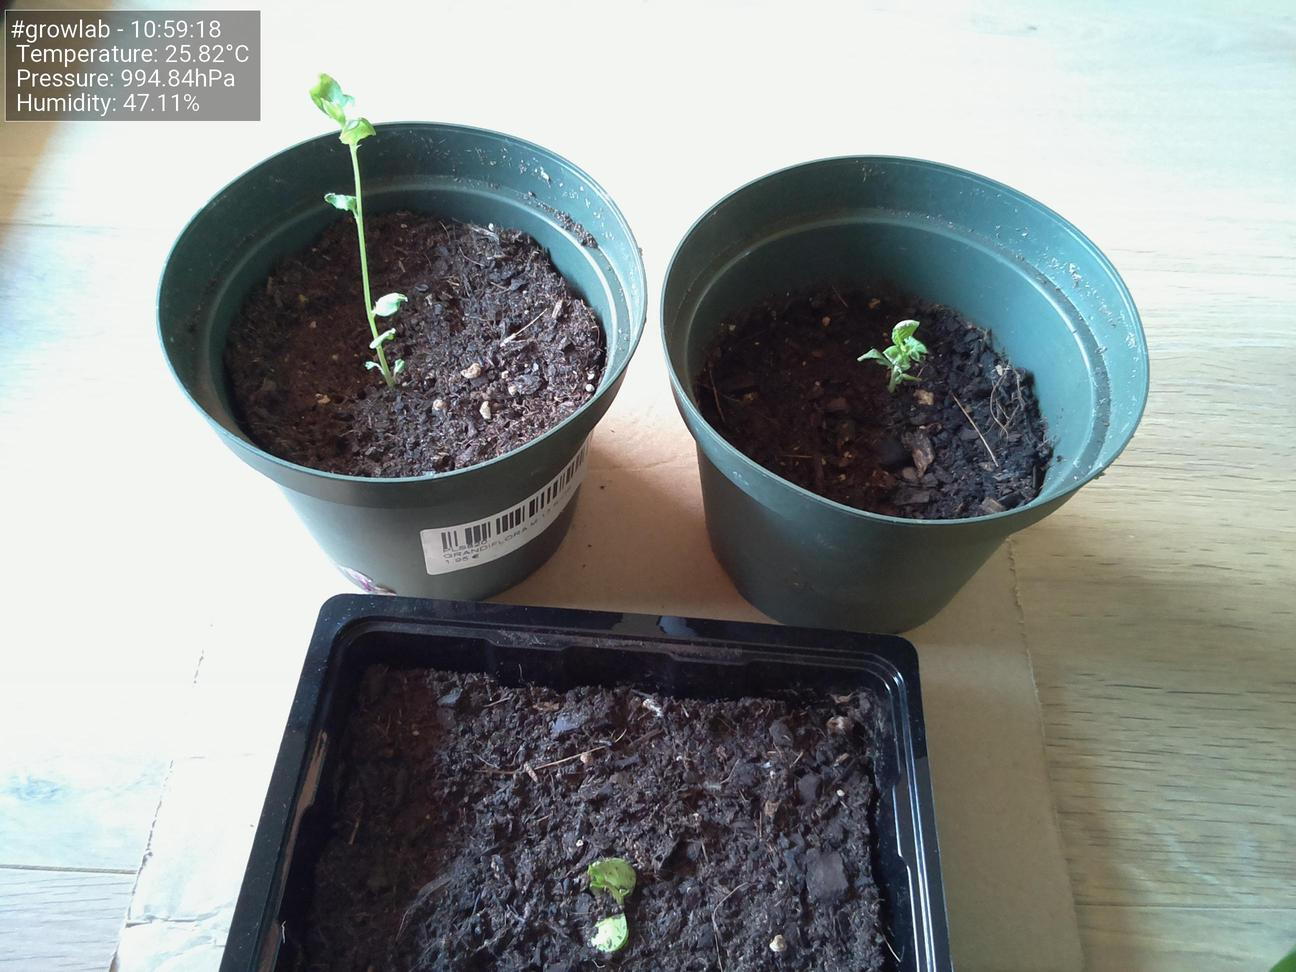
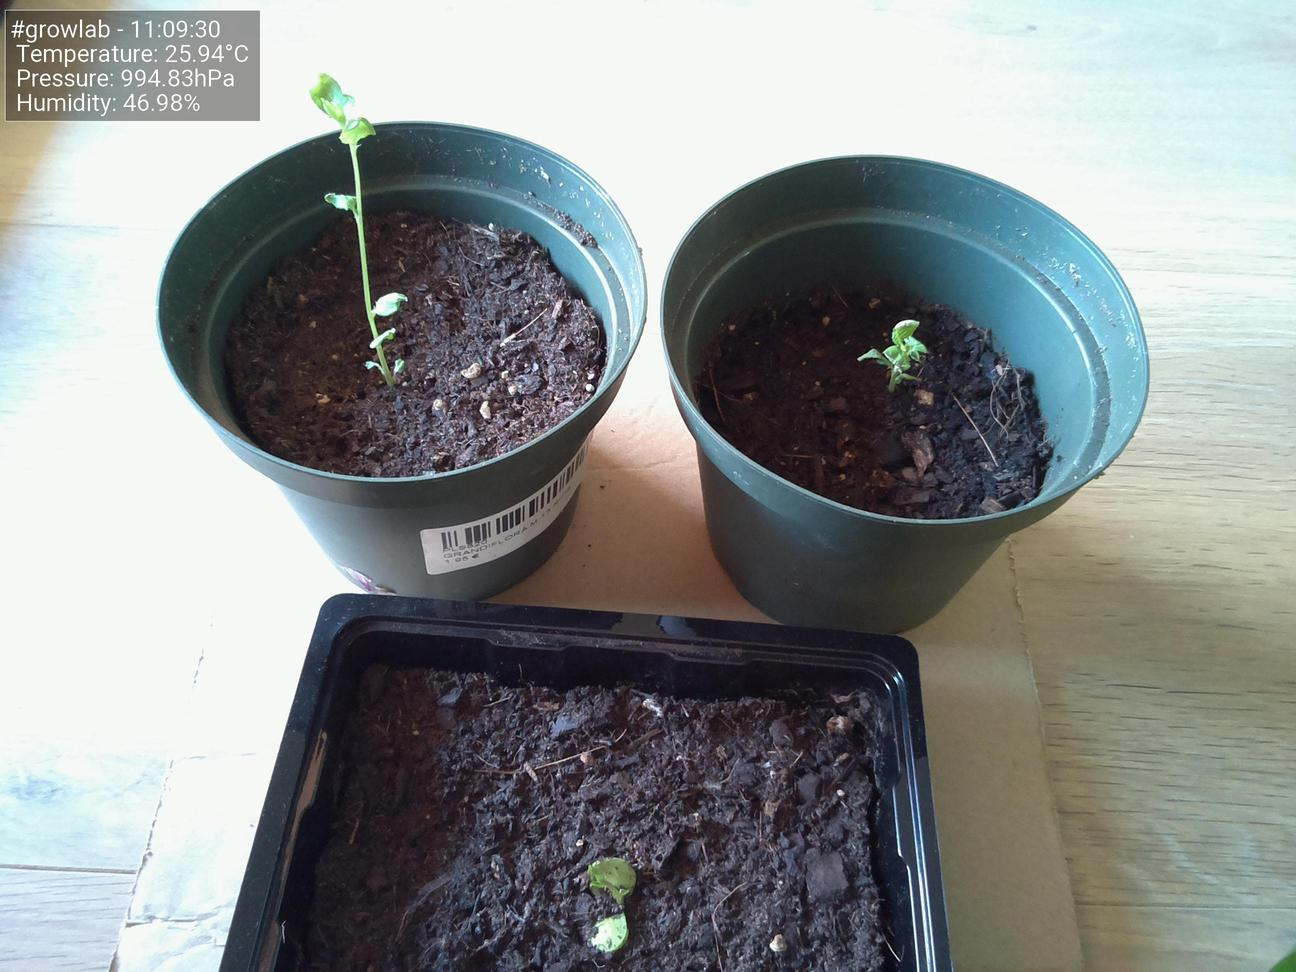
Update images at Wed 16 Jun 11:09:34 CEST 2021

diff --git a/docs/index.html b/docs/index.html
@@ -47,19 +47,19 @@
                         <tbody>
                             <tr>
                                 <td>Time</td>
-                                <td>10:59:18</td>
+                                <td>11:09:30</td>
                             </tr>
                             <tr>
                                 <td>Temperature</td>
-                                <td>25.82°C</td>
+                                <td>25.94°C</td>
                             </tr>
                             <tr>
                                 <td>Humidity</td>
-                                <td>47.11%</td>
+                                <td>46.98%</td>
                             </tr>
                             <tr>
                                 <td>Pressure</td>
-                                <td>994.84hPa</td>
+                                <td>994.83hPa</td>
                             </tr>
                         </tbody>
                     </table>
@@ -67,7 +67,7 @@
 
                 <h5>Latest image</h5>
                 <div style="width: 85%;">
-                            <img class="figure-img img-fluid rounded" src="./preview.jpg?uid=1623833962.874853">
+                            <img class="figure-img img-fluid rounded" src="./preview.jpg?uid=1623834574.3248844">
                 </div>
             </div>
         </div>
